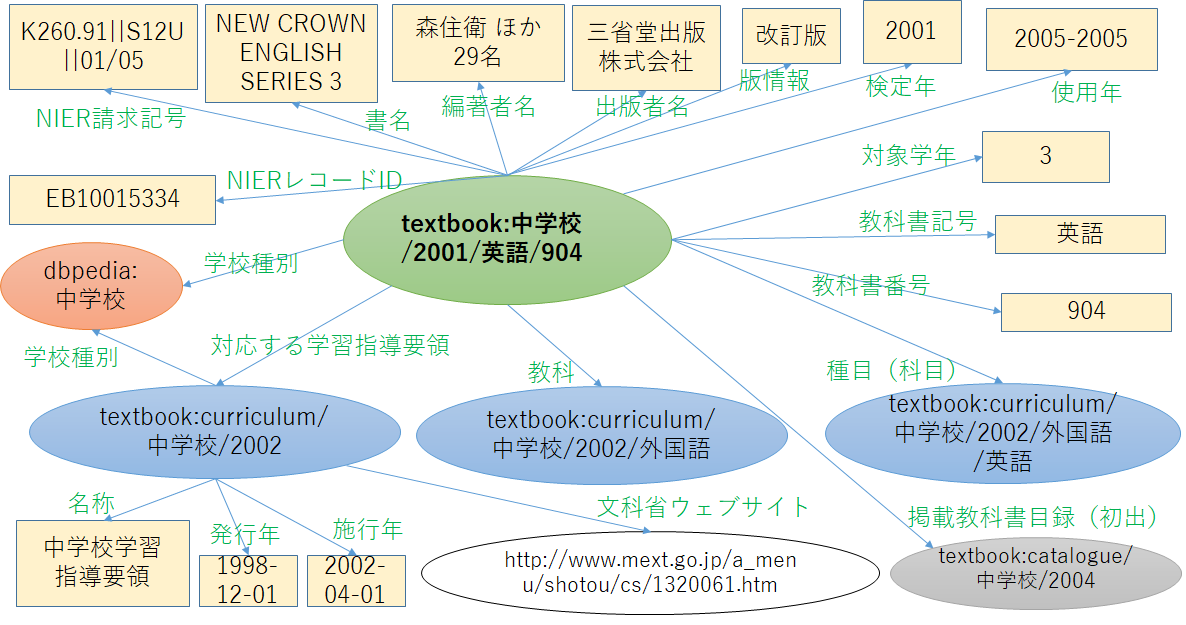
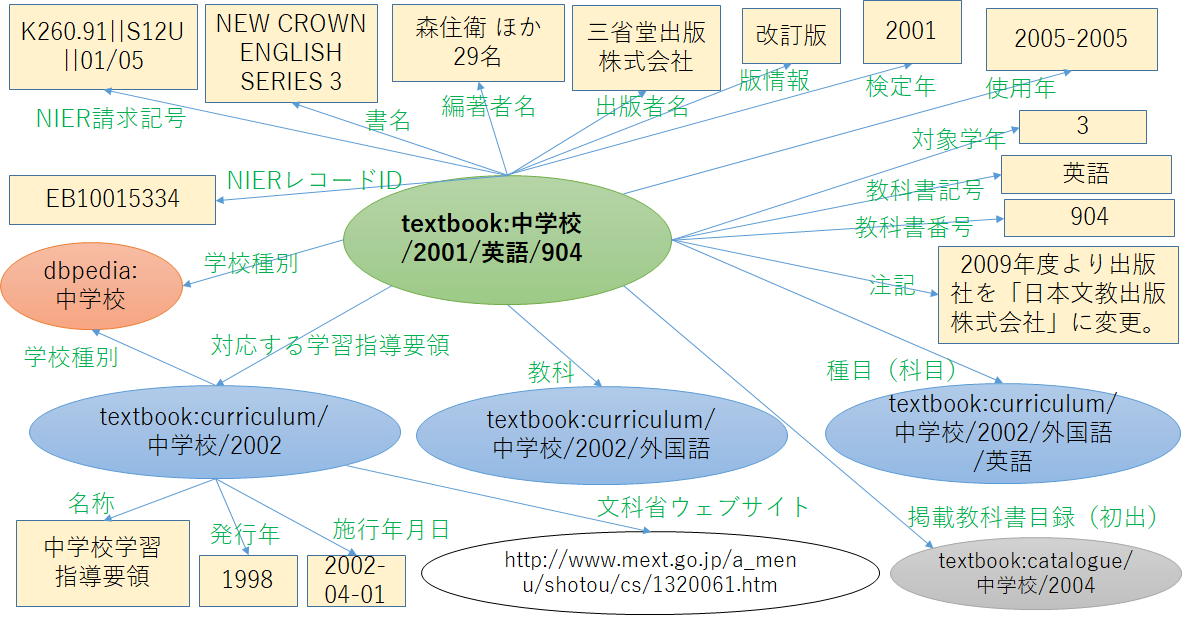
注記の説明を追加

diff --git a/about.html b/about.html
@@ -184,6 +184,12 @@
 			それ以外の場合は、21～64は1946年～1989年（昭和21年～昭和64年）を表し、
 			88～99は1988年～1999年、00～05は2000年～2005年を表す。）</td>
             </tr>
+            <tr>
+              <td><code>textbook:note</code></td>
+              <td>注記</td>
+              <td>2009年度より出版社を「日本文教出版株式会社」に変更。</td>
+              <td></td>
+            </tr>
             </tbody>
           </table>
         </div>
